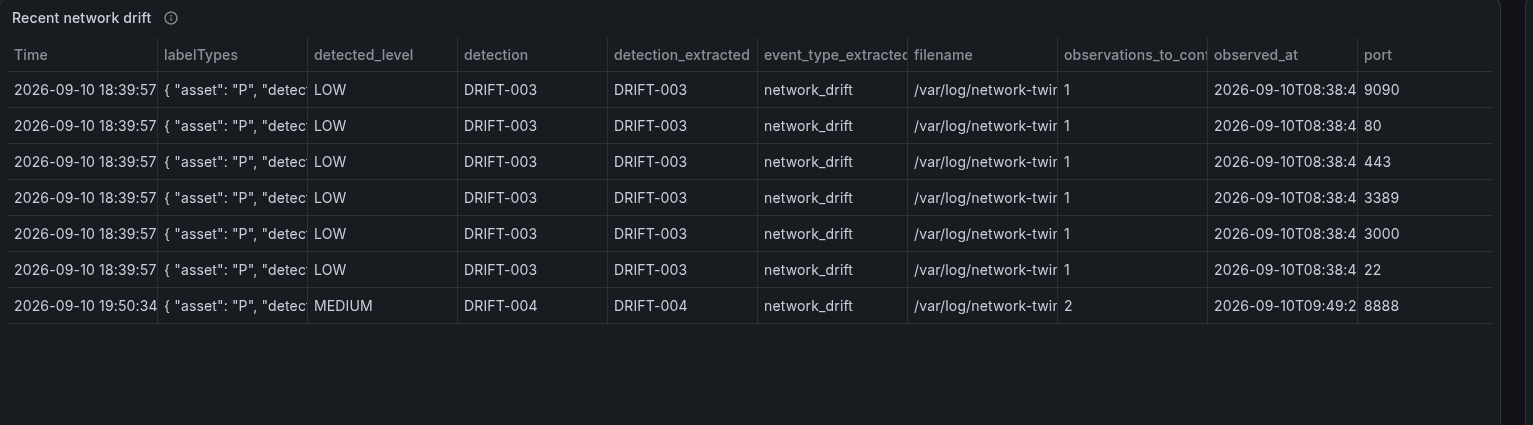
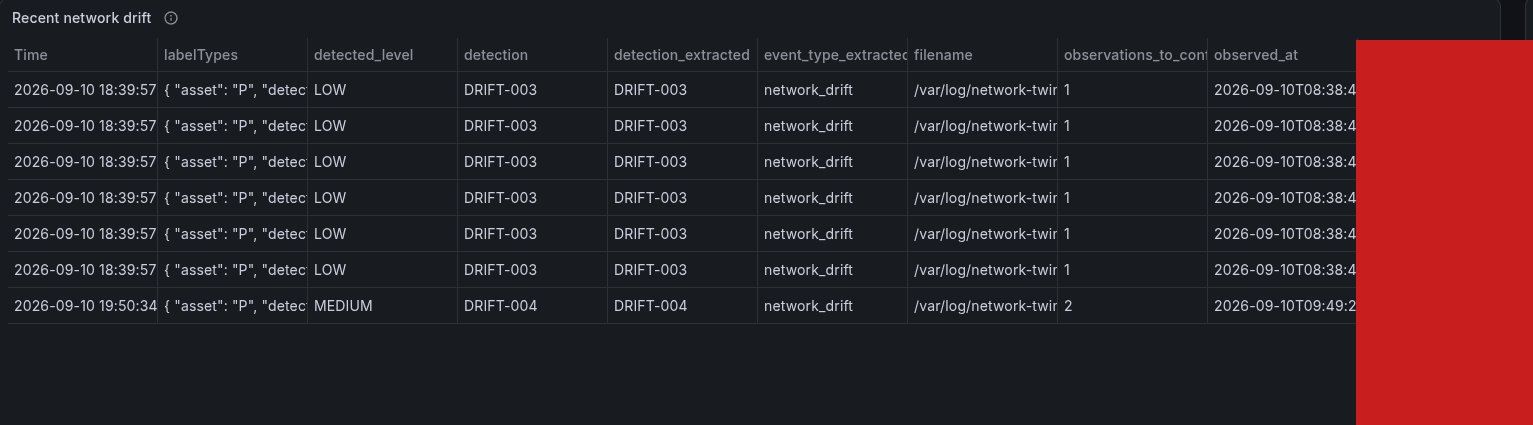
Widen the lab overview, make its flow rows collapsible, redact ports
The diagram was capped at 640px inside a 960px page, so eleven flow rows
stacked into a narrow column with dead space either side. On /lab/ the page now
widens to 1180px and the rows lay out in two columns, with the vertical spine
spanning both — a sequence broken across columns reads as two unrelated stacks.

Each flow row is now a <details open>. One HTML shape serves both call sites:
the front-page preview keeps them open and inert (marker hidden, not
clickable), while /lab/ makes them collapsible with a rotating caret. No
JavaScript, so nothing here touches the hash-locked script-src in
static/_headers.

Scoped deliberately. .lab-page is shared by /ai/ and /incidents/, so the
widening hangs off a new .lab-page-wide applied only to the lab layout; both
other pages verified unchanged in the built output.

Also fixed: the diagram still read "SOC · seven sources" after the network
digital twin became the eighth.

Ports redacted at Billal's request, in the post text as well as the images. The
narrative did not need the numbers — "an uncommon high port" and "a port inside
the scanned set" carry the same argument, and the drift-table screenshot keeps
observations_to_confirm visible, which is the column that matters.

Claude-Session: https://claude.ai/code/session_01TDT1hNnSkfWfEJRk7PRyHB

Changed region(s): [[0.8584, 0.0918, 1.0, 1.0]]

diff --git a/layouts/_partials/lab_diagram.html b/layouts/_partials/lab_diagram.html
@@ -43,8 +43,8 @@
       </div>
       <div class="lab-legend">🔒 single sign-on + MFA via Authentik</div>
     </div>
-    <div class="lab-publish">
-      <span class="lab-services-label">blog · published out</span>
+    <details class="lab-publish" open>
+      <summary class="lab-services-label"><span>blog · published out</span></summary>
       <div class="lab-pubflow">
         <span class="lab-pub">git push</span>
         <span class="lab-pub-arr" aria-hidden="true">→</span>
@@ -54,9 +54,9 @@
         <span class="lab-pub-arr" aria-hidden="true">→</span>
         <span class="lab-pub lab-pub-out">🌐 billsblog.dev</span>
       </div>
-    </div>
-    <div class="lab-publish">
-      <span class="lab-services-label">data · encrypted off-site</span>
+    </details>
+    <details class="lab-publish" open>
+      <summary class="lab-services-label"><span>data · encrypted off-site</span></summary>
       <div class="lab-pubflow">
         <span class="lab-pub">pg_dump · .backup</span>
         <span class="lab-pub-arr" aria-hidden="true">→</span>
@@ -64,9 +64,9 @@
         <span class="lab-pub-arr" aria-hidden="true">→</span>
         <span class="lab-pub lab-pub-out">☁ OneDrive</span>
       </div>
-    </div>
-    <div class="lab-publish">
-      <span class="lab-services-label">backups · watched nightly</span>
+    </details>
+    <details class="lab-publish" open>
+      <summary class="lab-services-label"><span>backups · watched nightly</span></summary>
       <div class="lab-pubflow">
         <span class="lab-pub">🔀 n8n</span>
         <span class="lab-pub-arr" aria-hidden="true">→</span>
@@ -76,9 +76,9 @@
         <span class="lab-pub-arr" aria-hidden="true">→</span>
         <span class="lab-pub lab-pub-out">📱 phone</span>
       </div>
-    </div>
-    <div class="lab-publish">
-      <span class="lab-services-label">VM instances · local full clone</span>
+    </details>
+    <details class="lab-publish" open>
+      <summary class="lab-services-label"><span>VM instances · local full clone</span></summary>
       <div class="lab-pubflow">
         <span class="lab-pub">🛡 pfSense VM · 🖥 Debian VM</span>
         <span class="lab-pub-arr" aria-hidden="true">→</span>
@@ -86,9 +86,9 @@
         <span class="lab-pub-arr" aria-hidden="true">→</span>
         <span class="lab-pub lab-pub-out">🗄 local image · fast rollback</span>
       </div>
-    </div>
-    <div class="lab-publish">
-      <span class="lab-services-label">alerts · pushed to phone</span>
+    </details>
+    <details class="lab-publish" open>
+      <summary class="lab-services-label"><span>alerts · pushed to phone</span></summary>
       <div class="lab-pubflow">
         <span class="lab-pub">🔎 Loki ruler</span>
         <span class="lab-pub-arr" aria-hidden="true">→</span>
@@ -98,9 +98,9 @@
         <span class="lab-pub-arr" aria-hidden="true">→</span>
         <span class="lab-pub lab-pub-out">📱 phone</span>
       </div>
-    </div>
-    <div class="lab-publish">
-      <span class="lab-services-label">SOC · seven sources, one place</span>
+    </details>
+    <details class="lab-publish" open>
+      <summary class="lab-services-label"><span>SOC · eight sources, one place</span></summary>
       <div class="lab-pubflow">
         <span class="lab-pub">pfSense · auth · syslog · Caddy · Authentik · containers</span>
         <span class="lab-pub-arr" aria-hidden="true">→</span>
@@ -111,13 +111,13 @@
         <span class="lab-pub lab-pub-out">🔎 17 detection rules</span>
       </div>
       <div class="lab-legend">access logs redacted at source — OAuth codes, cookies and bearer tokens never reach disk · <a href="/soc/">see the SOC &rarr;</a></div>
-    </div>
+    </details>
     {{- /* Two flows, one block, because they are the same control split in half: the
            agent that changes things is recorded, and a different agent that changes
            nothing reads the result. Kept inside this row so the "telemetry & egress
            flows" figure in data/lab.yaml still counts the labelled rows, not the lines. */ -}}
-    <div class="lab-publish">
-      <span class="lab-services-label">AI agents · audited, not trusted</span>
+    <details class="lab-publish" open>
+      <summary class="lab-services-label"><span>AI agents · audited, not trusted</span></summary>
       <div class="lab-pubflow">
         <span class="lab-pub">🤖 Claude Code · builds</span>
         <span class="lab-pub-arr" aria-hidden="true">→</span>
@@ -155,9 +155,9 @@
         <span class="lab-pub lab-pub-out">🧑 I decide the response</span>
       </div>
       <div class="lab-legend">no agent reviews its own change — the builder can't audit, the auditor can't remediate</div>
-    </div>
-    <div class="lab-publish">
-      <span class="lab-services-label">network digital twin · intended vs observed</span>
+    </details>
+    <details class="lab-publish" open>
+      <summary class="lab-services-label"><span>network digital twin · intended vs observed</span></summary>
       <div class="lab-pubflow">
         <span class="lab-pub">🗂 NetBox · should</span>
         <span class="lab-pub-arr" aria-hidden="true">→</span>
@@ -168,9 +168,9 @@
         <span class="lab-pub lab-pub-out">🧑 I decide, never auto-reconciled</span>
       </div>
       <div class="lab-legend">the twin can't write to NetBox — the API token is read-only, and that was verified by watching a write get refused</div>
-    </div>
-    <div class="lab-publish">
-      <span class="lab-services-label">remote access · two independent ways in</span>
+    </details>
+    <details class="lab-publish" open>
+      <summary class="lab-services-label"><span>remote access · two independent ways in</span></summary>
       <div class="lab-pubflow">
         <span class="lab-pub">📱 phone · 💻 laptop</span>
         <span class="lab-pub-arr" aria-hidden="true">→</span>
@@ -178,9 +178,9 @@
         <span class="lab-pub-arr" aria-hidden="true">→</span>
         <span class="lab-pub lab-pub-out">🏠 whole lab · ACL-gated</span>
       </div>
-    </div>
-    <div class="lab-publish">
-      <span class="lab-services-label">DNS · ads + trackers + adult filtered</span>
+    </details>
+    <details class="lab-publish" open>
+      <summary class="lab-services-label"><span>DNS · ads + trackers + adult filtered</span></summary>
       <div class="lab-pubflow">
         <span class="lab-pub">🖥 host rig · 📱 phone (tailnet)</span>
         <span class="lab-pub-arr" aria-hidden="true">→</span>
@@ -188,6 +188,6 @@
         <span class="lab-pub-arr" aria-hidden="true">→</span>
         <span class="lab-pub lab-pub-out">☁ Cloudflare DoH</span>
       </div>
-    </div>
+    </details>
   </div>
 </aside>

diff --git a/assets/css/extended/custom.css b/assets/css/extended/custom.css
@@ -3553,3 +3553,74 @@ a, button, summary, label, .featured-card, [role="button"],
     margin-left: 0.35rem; font-size: 0.68rem; opacity: 0.65;
 }
 .tag-filter-links .tag-chip-more { border-style: dashed; }
+
+/* --- Lab overview: wide layout + collapsible flows -------------------------
+   The diagram was capped at 640px inside a 960px page, so eleven flow rows
+   stacked into a narrow column with dead space either side. On /lab/ only, the
+   page widens and those rows lay out in a grid.
+
+   The rows are <details open>. That single HTML shape serves both call sites:
+   the front-page preview keeps them open and inert (no marker, not clickable),
+   while /lab/ makes them collapsible. No JavaScript, so nothing here touches
+   the hash-locked script-src in static/_headers.
+
+   Scoped to .lab-page-wide on purpose — .lab-page is also used by /ai/ and
+   /incidents/, which are not part of this change. */
+
+/* Everywhere by default (front-page preview): behave exactly as before. */
+.lab-publish > summary.lab-services-label { list-style: none; cursor: default; }
+.lab-publish > summary.lab-services-label::-webkit-details-marker { display: none; }
+.lab-publish > summary.lab-services-label::marker { content: ""; }
+
+/* /lab/ only. */
+.lab-page-wide { max-width: 1180px; }
+.lab-page-wide .lab-diagram { max-width: 100%; }
+
+@media (min-width: 900px) {
+  .lab-page-wide .lab-diagram > .lab-publish { break-inside: avoid; }
+  .lab-page-wide .lab-diagram {
+    column-count: 2;
+    column-gap: 1.1rem;
+  }
+  /* The vertical spine is the one thing that must NOT be split across
+     columns — it reads as a sequence, and a sequence broken mid-way reads
+     as two unrelated stacks. */
+  .lab-page-wide .lab-diagram > .lab-flow,
+  .lab-page-wide .lab-diagram > .lab-services-wrap {
+    column-span: all;
+    margin-bottom: 0.9rem;
+  }
+}
+
+.lab-page-wide .lab-publish {
+  display: inline-block;
+  width: 100%;
+  margin-bottom: 0.75rem;
+  border: 1px solid var(--card-border);
+  border-radius: 10px;
+  padding: 0.55rem 0.7rem;
+  background: rgba(13, 13, 15, 0.55);
+}
+.lab-page-wide .lab-publish > summary.lab-services-label {
+  cursor: pointer;
+  display: flex;
+  align-items: center;
+  gap: 0.4rem;
+  user-select: none;
+}
+/* A rotating caret rather than the default triangle, so it matches the chips. */
+.lab-page-wide .lab-publish > summary.lab-services-label::before {
+  content: "▸";
+  font-size: 0.7rem;
+  color: var(--accent);
+  transition: transform 0.15s ease;
+}
+.lab-page-wide .lab-publish[open] > summary.lab-services-label::before {
+  transform: rotate(90deg);
+}
+.lab-page-wide .lab-publish > summary.lab-services-label:hover { color: var(--accent); }
+.lab-page-wide .lab-publish:focus-within { border-color: var(--accent); }
+
+@media (max-width: 899px) {
+  .lab-page-wide .lab-diagram { column-count: 1; }
+}

diff --git a/layouts/_default/lab.html b/layouts/_default/lab.html
@@ -1,6 +1,6 @@
 {{- define "main" }}
 {{ partial "matrix_bg.html" . }}
-<div class="lab-page">
+<div class="lab-page lab-page-wide">
   <header class="page-header">
     {{ partial "breadcrumbs.html" . }}
     <h1>{{ .Title }}</h1>

diff --git a/content/posts/network-digital-twin.md b/content/posts/network-digital-twin.md
@@ -51,8 +51,8 @@ someone to read if they only read one section.
 **NetBox says what *should* be listening. Nmap says what *actually answers*.
 These are never allowed to update each other.**
 
-That last part is the rule everything else hangs off. When the scanner finds
-TCP/8080 that isn't in the inventory, the wrong move is to add it to NetBox —
+That last part is the rule everything else hangs off. When the scanner finds a
+listening port that isn't in the inventory, the wrong move is to add it to NetBox —
 that's not reconciliation, it's laundering an unknown into a fact. The right
 move is: compare, raise a finding, investigate, and let a **human** decide
 whether to document it or remove it.
@@ -125,9 +125,10 @@ as it persists.
 Unit tests all mock the scan, so they prove the logic above an observation
 without proving the observation. The only honest test is a real service.
 
-I bound a benign listener on port 8888, on the Docker bridge only:
+I bound a benign listener on a port inside the scanned set, on the Docker
+bridge only:
 
-![The recent network drift table showing DRIFT-004 MEDIUM on tcp/8888 with observations_to_confirm of 2, alongside six DRIFT-003 first-sightings](/images/posts/network-digital-twin/recent-network-drift.png)
+![The recent network drift table showing a DRIFT-004 MEDIUM finding with observations_to_confirm of 2, alongside six DRIFT-003 first-sightings. Port numbers redacted](/images/posts/network-digital-twin/recent-network-drift.png)
 
 `DRIFT-004`, MEDIUM, confirmed after **2** observations. The first sighting
 stayed pending and silent — exactly as intended. Then:
@@ -147,23 +148,24 @@ this was a test, and didn't invent a story to explain the service.
 
 ## The bit worth reading: a test that failed
 
-Before 8888, I ran the same test on port **18080**. Nothing was detected.
+Before that, I ran the same test on **an uncommon high port**. Nothing was
+detected.
 
 Not a bug in the diff engine, the persistence logic, or the alerting. The scan
-uses nmap's top 200 ports, and **18080 isn't one of them**. The observation
-never looked.
+uses nmap's top 200 ports, and **that port isn't one of them**. The
+observation never looked.
 
 For a platform whose entire purpose is finding unexpected services, that's
-backwards. An unexpected service on 8080 is usually a misconfiguration. One on
-an uncommon high port is the more suspicious case — and that's precisely the
+backwards. An unexpected service on a common web port is usually a misconfiguration.
+One on an uncommon high port is the more suspicious case — and that's precisely the
 case currently invisible. Something could sit up there indefinitely while the
 dashboard reported a clean match.
 
 **No unit test could have caught it.** All sixty-eight of them mock the scan, so
 every one validates logic sitting above an observation that never looked. It
-took binding a real service on an arbitrary port, and I only picked 18080 out of
-habit. Had I picked 8080 first, this would have passed cleanly and shipped with
-the hole intact.
+took binding a real service on an arbitrary port, and I only picked an unusual
+one out of habit. Had I picked a common web port first, this would have passed
+cleanly and shipped with the hole intact.
 
 That's the third time in this lab I've hit the same shape: **a control that
 looks correct, tests clean, and does nothing.** First a firewall rule list that
